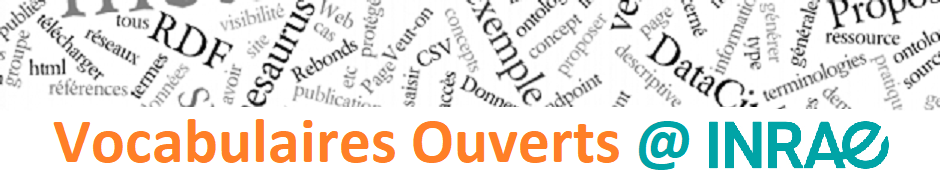
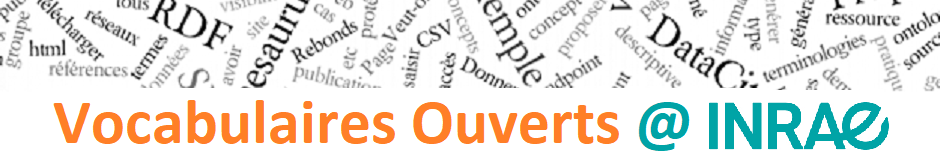
smaller bandeau

diff --git a/resource/css/stylesheet.css b/resource/css/stylesheet.css
@@ -23,7 +23,7 @@ h1 {
 	background-image: url('../pics/BandeauVO_siteWeb.png');
 	background-repeat:no-repeat;
 	background-size: cover;
-	height: 230px;
+	height: 200px;
 }
 
 /* removes space between top image and search bar */
